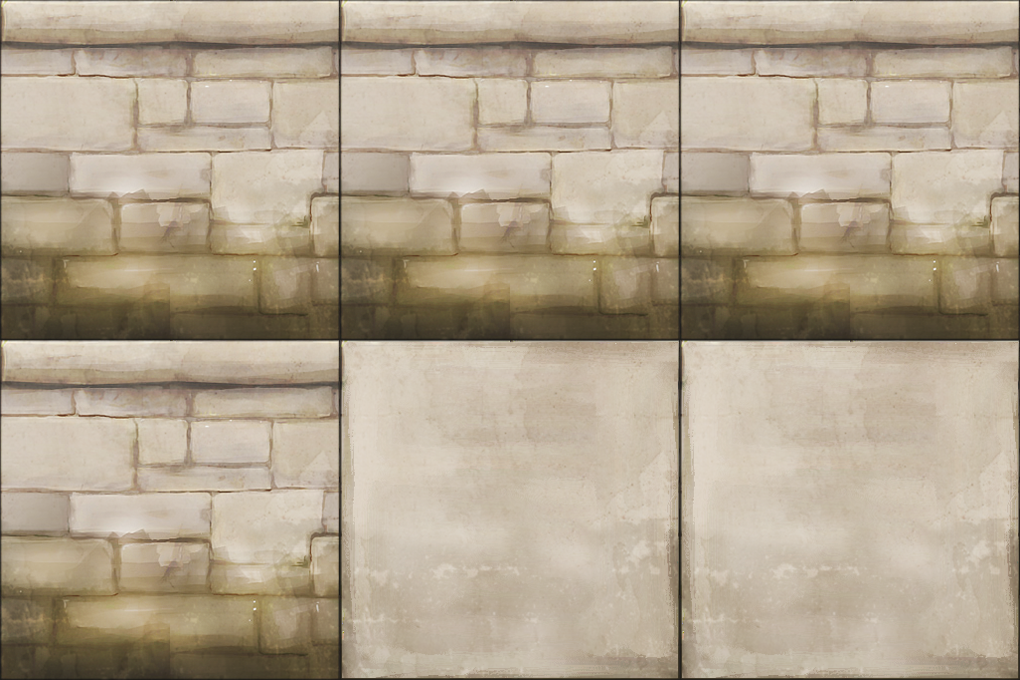
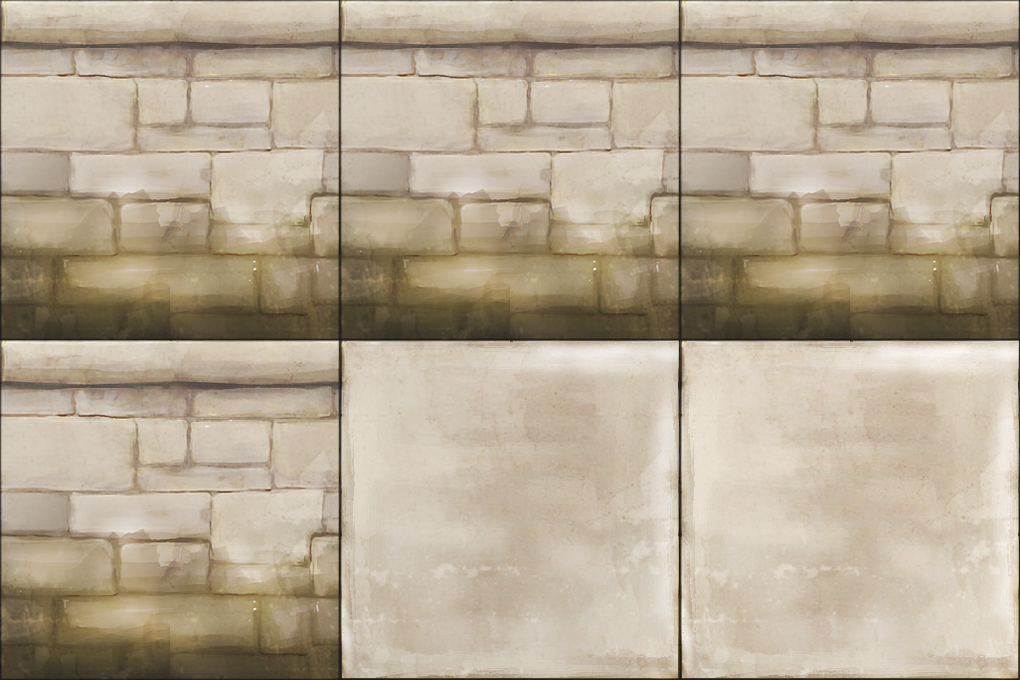
caisse en bois

diff --git a/srcs/game/Brick.cpp b/srcs/game/Brick.cpp
@@ -15,7 +15,7 @@
 using namespace	Bomberman;
 
 Brick::Brick(const Vector3d& pos, const Vector3d& rot, const Vector3d& sz)
-  : AObject(pos, rot, sz, "Brick"), model_(ModelHandler::get().getModel("cube"))
+  : AObject(pos, rot, sz, "cube"), model_(ModelHandler::get().getModel("brick"))
 {
     PowerupFactory *factory = PowerupFactory::getInstance();
 
@@ -29,7 +29,7 @@ Brick::Brick(const Vector3d& pos, const Vector3d& rot, const Vector3d& sz)
 }
 
 Brick::Brick(const Brick &other)
-  : AObject(other.pos_, other.rot_, other.sz_, "Brick"), model_(other.model_)
+  : AObject(other.pos_, other.rot_, other.sz_, "cube"), model_(other.model_)
 {
     PowerupFactory *factory = PowerupFactory::getInstance();
 
@@ -43,7 +43,7 @@ Brick::Brick(const Brick &other)
 }
 
 Brick::Brick()
-    : AObject(Vector3d(), Vector3d(), Vector3d(), "Brick"), model_(ModelHandler::get().getModel("cube"))
+    : AObject(Vector3d(), Vector3d(), Vector3d(), "cube"), model_(ModelHandler::get().getModel("brick"))
 {
 }
 

diff --git a/srcs/core/StatesManager.cpp b/srcs/core/StatesManager.cpp
@@ -55,6 +55,9 @@ void      StatesManager::initialize()
         new TexturedCube("Ressources/Images/Play/block.png"),
         "block");
   Bomberman::ModelHandler::get().storeModel(
+        new TexturedCube("Ressources/Images/Play/brick.png"),
+        "brick");
+  Bomberman::ModelHandler::get().storeModel(
         new RotatingImg("Ressources/Images/Play/powerup.png"),
         "powerup");
   Bomberman::ModelHandler::get().storeModel(

diff --git a/srcs/core/KeysConfig.cpp b/srcs/core/KeysConfig.cpp
@@ -179,7 +179,8 @@ gdl::Keys::Key &KeysConfig::searchKey(eKeys k, int id)
 
 gdl::Keys::Key &KeysConfig::get(eKeys k, int id)
 {
-    //std::cout << std::endl << std::endl << "==========================" << std::endl;
+    std::cout << std::endl << std::endl << "==========================" << std::endl;
+    aff();
     if (KeysConfig::fileIsValid(id))
         return searchKey(k, id);
     if (id == 0)
